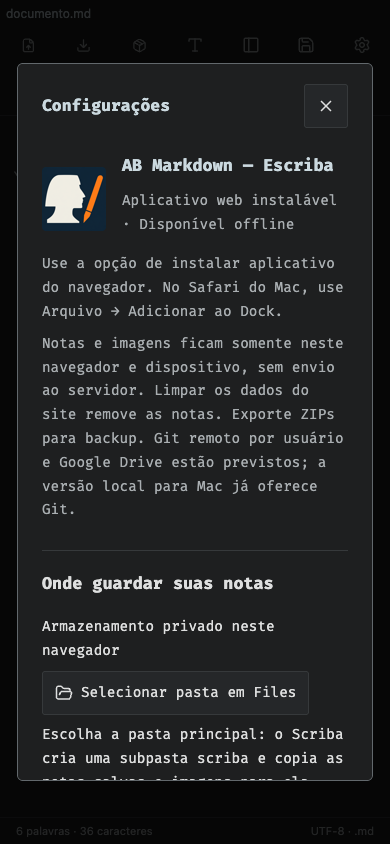
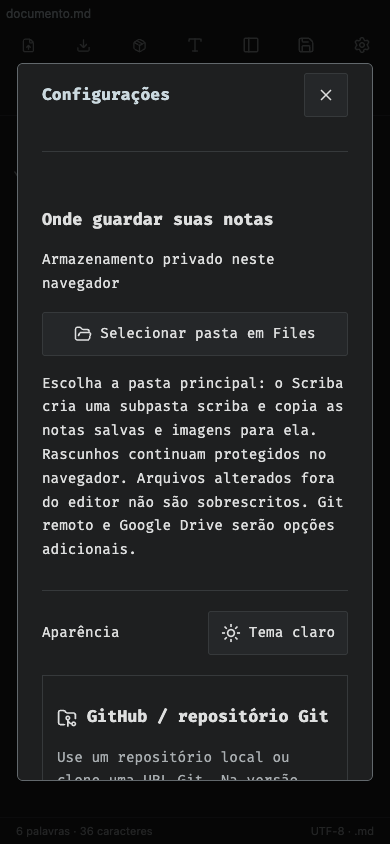
fix: load existing directory notes and refresh the sidebar

diff --git a/src/main.tsx b/src/main.tsx
@@ -109,6 +109,7 @@ function App() {
   const pwa = usePwa();
   const [deviceFolder, setDeviceFolder] = useState('');
   useEffect(() => {if(browserMode)void folderLabel().then(setDeviceFolder);}, []);
+  async function importDeviceNotes() {await api('folder/import',{});await refresh();return (await api<string[]>('files')).length;}
   async function syncDeviceNotes() {for(const file of await api<string[]>('files')){const note=await api<LoadedDocument>(`document?name=${encodeURIComponent(file)}`);await saveToDeviceFolder({name:file,...note});}}
   useEffect(() => {
     // iOS visual viewport shrinks for the keyboard even when layout viewport/dvh does not.
@@ -189,6 +190,7 @@ function App() {
     });
   }
   async function refresh() {
+    if(browserMode && await folderLabel()) await api('folder/import',{});
     const info = await api<RepositoryInfo>('repository'); setRepository(info);
     setFiles(info.repository ? await api<string[]>('files') : []);
     if (info.repository) await refreshLibrary(); else { setRecentNotes([]); setPinnedNotes([]); }
@@ -357,7 +359,7 @@ function App() {
       <p>{browserMode ? 'Notas e imagens ficam somente neste navegador e dispositivo, sem envio ao servidor. Limpar os dados do site remove as notas. Exporte ZIPs para backup. Git remoto por usuário e Google Drive estão previstos; a versão local para Mac já oferece Git.' : 'Rascunhos e imagens ficam neste navegador. Para gravar na pasta e sincronizar o Git, o aplicativo local precisa estar em execução.'}</p>
       {pwa.updateAvailable && <p>Atualização pronta. Seus rascunhos estão preservados; feche as janelas do editor e abra novamente quando terminar.</p>}
     </section>
-    {browserMode && <section className="storage-settings" aria-label="Pasta de notas"><h3>Onde guardar suas notas</h3><p>{deviceFolder ? `Pasta selecionada: ${deviceFolder}` : 'Armazenamento privado neste navegador'}</p>{canChooseFolder() ? <div className="settings-actions"><button disabled={busy} onClick={() => {void run(async () => {const label=await chooseDeviceFolder();setDeviceFolder(label);await syncDeviceNotes();setNotice(`Notas copiadas para ${label}. Novos salvamentos também irão para essa pasta.`);});}}><FolderOpen size={18}/>Selecionar pasta em Files</button>{deviceFolder && <><button disabled={busy} onClick={() => void run(async () => {await authorizeDeviceFolder();await syncDeviceNotes();setNotice('Pasta autorizada e notas copiadas.');})}>Autorizar pasta e copiar notas</button><button onClick={() => void run(async () => {await disconnectFolder();setDeviceFolder('');})}>Usar somente navegador</button></>}</div> : <p>Este navegador não oferece acesso de gravação a pastas do Files. Suas notas ficam neste navegador; use Baixar pacote para salvar um ZIP em Files. No iPhone/iPad, o acesso contínuo a pastas exige um aplicativo nativo.</p>}<p>Escolha a pasta principal: o Scriba cria uma subpasta scriba e copia as notas salvas e imagens para ela. Rascunhos continuam protegidos no navegador. Arquivos alterados fora do editor não são sobrescritos. Git remoto e Google Drive serão opções adicionais.</p></section>}
+    {browserMode && <section className="storage-settings" aria-label="Pasta de notas"><h3>Onde guardar suas notas</h3><p>{deviceFolder ? `Pasta selecionada: ${deviceFolder}` : 'Armazenamento privado neste navegador'}</p>{canChooseFolder() ? <div className="settings-actions"><button disabled={busy} onClick={() => {void run(async () => {const label=await chooseDeviceFolder();setDeviceFolder(label);const count=await importDeviceNotes();await syncDeviceNotes();setSettingsOpen(false);setNotesOpen(true);setNotice(`${count} notas carregadas. Pasta: ${label}.`);});}}><FolderOpen size={18}/>Selecionar pasta em Files</button>{deviceFolder && <><button disabled={busy} onClick={() => void run(async () => {await authorizeDeviceFolder();const count=await importDeviceNotes();await syncDeviceNotes();setSettingsOpen(false);setNotesOpen(true);setNotice(`Pasta lida: ${count} notas disponíveis na lista.`);})}>Autorizar pasta e carregar notas</button><button onClick={() => void run(async () => {await disconnectFolder();setDeviceFolder('');})}>Usar somente navegador</button></>}</div> : <p>Este navegador não oferece acesso de gravação a pastas do Files. Suas notas ficam neste navegador; use Baixar pacote para salvar um ZIP em Files. No iPhone/iPad, o acesso contínuo a pastas exige um aplicativo nativo.</p>}<p>Escolha a pasta principal: o Scriba cria uma subpasta scriba e copia as notas salvas e imagens para ela. Rascunhos continuam protegidos no navegador. Arquivos alterados fora do editor não são sobrescritos. Git remoto e Google Drive serão opções adicionais.</p></section>}
     <div className="settings-theme"><span>Aparência</span><button aria-label={theme === 'dark' ? 'Usar tema claro' : 'Usar tema escuro'} onClick={() => setTheme(theme === 'dark' ? 'light' : 'dark')}>{theme === 'dark' ? <Sun size={20}/> : <Moon size={20}/>}Tema {theme === 'dark' ? 'claro' : 'escuro'}</button></div>
     {browserMode && <section className="repository" aria-label="Sincronização com GitHub e Git"><h3><FolderGit2 size={20}/> GitHub / repositório Git</h3><p>Use um repositório local ou clone uma URL Git. Na versão local, cada salvamento grava o arquivo, cria um commit e faz push usando suas credenciais.</p><div className="settings-actions"><a className="settings-action" href="http://127.0.0.1:43127/" target="_blank" rel="noopener noreferrer">Abrir editor local com Git</a><a className="settings-action" href="https://github.com/ab-orbit/ab-markdow-editor#readme" target="_blank" rel="noopener noreferrer">Instalar no Mac</a></div><p>Abra o aplicativo AB Markdown no Mac antes de conectar. No editor local, abra Configurações para selecionar a pasta ou clonar o repositório. As notas deste site continuam separadas; use Baixar pacote e importe no editor local para transferi-las.</p><p>No celular e tablet, a conexão direta com GitHub por usuário ainda está em desenvolvimento. A pasta do dispositivo e o armazenamento no navegador continuam disponíveis conforme o suporte do navegador.</p></section>}
     {!browserMode && <details className="repository" open={!repository.repository || undefined}>

diff --git a/src/lib/deviceFolder.ts b/src/lib/deviceFolder.ts
@@ -4,16 +4,16 @@ export const canChooseFolder = () => 'showDirectoryPicker' in window;
 async function database():Promise<IDBDatabase> { return new Promise((resolve,reject)=>{const r=indexedDB.open('scriba-device-folder',1);r.onupgradeneeded=()=>r.result.createObjectStore('settings');r.onsuccess=()=>resolve(r.result);r.onerror=()=>reject(r.error);}); }
 async function setting<T>(key:string,value?:T):Promise<T|undefined> {const db=await database();try{return await new Promise((resolve,reject)=>{const tx=db.transaction('settings',value===undefined?'readonly':'readwrite'),store=tx.objectStore('settings');const r=value===undefined?store.get(key):store.put(value,key);let result:T;r.onsuccess=()=>{result=r.result as T;};tx.oncomplete=()=>resolve(result);tx.onerror=()=>reject(tx.error);});}finally{db.close();}}
 export async function folderLabel() {return (await setting<{label:string}>('label'))?.label||'';}
-export async function disconnectFolder() {await setting('handle',null);await setting('label',{label:''});}
+export async function disconnectFolder() {await setting('parent',null);await setting('handle',null);await setting('label',{label:''});}
 /** Invoke directly from a click so the OS permission prompt retains user activation. */
 export async function chooseDeviceFolder() {
  const picker=(window as unknown as {showDirectoryPicker(options:{mode:string}):Promise<Directory>}).showDirectoryPicker;
  if(!picker)throw new Error('Este navegador não permite gravar em uma pasta do Files. Use as notas no navegador e exporte ZIPs para Files.');
  const parent=await picker.call(window,{mode:'readwrite'});
  const folder=await parent.getDirectoryHandle('scriba',{create:true}) as Directory;
- await setting('handle',folder);await setting('label',{label:`${parent.name}/scriba`});return `${parent.name}/scriba`;
+ await setting('parent',parent);await setting('handle',folder);await setting('label',{label:`${parent.name}/scriba`});return `${parent.name}/scriba`;
 }
-export async function authorizeDeviceFolder() {const folder=await setting<Directory>('handle');if(folder&&await folder.requestPermission({mode:'readwrite'})!=='granted')throw new Error('Permita o acesso à pasta para salvar nela.');}
+export async function authorizeDeviceFolder() {if(!await setting('parent'))throw new Error('Selecione novamente a pasta principal pelo botão Selecionar pasta em Files para carregar as notas existentes. A configuração anterior guardava apenas a subpasta scriba.');const folder=await setting<Directory>('handle');if(folder&&await folder.requestPermission({mode:'readwrite'})!=='granted')throw new Error('Permita o acesso à pasta para salvar nela.');}
 function safeParts(name:string) {const parts=name.split('/');if(!parts.length||parts.some(p=>!p||p==='.'||p==='..'||p.includes('\\')||p.includes('\0')))throw new Error('Caminho inválido para salvar na pasta.');return parts;}
 async function digest(bytes:Uint8Array) {const hash=await crypto.subtle.digest('SHA-256',bytes as BufferSource);return Array.from(new Uint8Array(hash),b=>b.toString(16).padStart(2,'0')).join('');}
 /** Reject external changes and collisions; a browser copy survives any permission/write failure. */
@@ -32,4 +32,28 @@ export async function saveToDeviceFolder(note:{name:string;value:string;files:{p
  const prefix=note.name.includes('/')?note.name.slice(0,note.name.lastIndexOf('/')+1):'';
  for(const file of note.files)await write(folder,prefix+file.path,Uint8Array.from(atob(file.data),c=>c.charCodeAt(0)));
  await write(folder,note.name,new TextEncoder().encode(note.value));
+}
+
+/** Read existing Markdown files from the selected parent and its scriba child. Git metadata is never traversed. */
+export async function readDeviceNotes() {
+ const folder=await setting<Directory>('handle');const parent=await setting<Directory>('parent');
+ if(!folder)return [];
+ const notes:{name:string;value:string;files:{path:string;data:string;mime:string}[];modifiedAt:string}[]=[];
+ async function scan(directory:FileSystemDirectoryHandle,prefix:string,depth:number) {
+  if(depth>10)return;
+  for await(const [leaf,entry] of (directory as any).entries()) {
+   if(leaf.startsWith('.')||leaf==='node_modules'||(!prefix&&leaf==='scriba'))continue;
+   if(entry.kind==='directory'){await scan(entry,`${prefix}${leaf}/`,depth+1);continue;}
+   if(!/\.(md|markdown|mdown)$/i.test(leaf))continue;
+   const file=await entry.getFile();if(file.size>5*1024*1024)continue;
+   const value=await file.text();const files:{path:string;data:string;mime:string}[]=[];
+   for(const match of value.matchAll(/!\[[^\]]*\]\(<?([^\s)>]+)>?(?:\s+[^)]*)?\)/g)) {
+    try {const imagePath=decodeURIComponent(match[1]);const parts=safeParts(imagePath);let imageDir=directory;for(const part of parts.slice(0,-1))imageDir=await imageDir.getDirectoryHandle(part);const image=await(await imageDir.getFileHandle(parts.at(-1)!)).getFile();if(image.size>10*1024*1024||!/^image\/(png|jpeg|gif|webp)$/.test(image.type))continue;const bytes=new Uint8Array(await image.arrayBuffer());let binary='';for(let i=0;i<bytes.length;i+=8192)binary+=String.fromCharCode(...bytes.subarray(i,i+8192));files.push({path:imagePath,data:btoa(binary),mime:image.type});}catch{/* Keep Markdown available even if an image cannot be read. */}
+   }
+   notes.push({name:prefix+leaf,value,files,modifiedAt:new Date(file.lastModified).toISOString()});
+  }
+ }
+ if(parent)await scan(parent,'',0);
+ await scan(folder,'',0);
+ return notes;
 }

diff --git a/src/lib/browserStore.ts b/src/lib/browserStore.ts
@@ -1,4 +1,4 @@
-import {saveToDeviceFolder} from './deviceFolder';
+import {saveToDeviceFolder, readDeviceNotes} from './deviceFolder';
 import welcomeUrl from '../../server/assets/escriba-welcome-v1.jpg?url';
 /** Public builds keep all user content in this origin's IndexedDB, never on the VPS. */
 export const browserMode = import.meta.env.VITE_STORAGE_MODE === 'browser';
@@ -18,6 +18,7 @@ export async function browserFetch(route:string, body?:any):Promise<Response> {
   try {
     const database=await db();
     const url=new URL(route,'https://browser.invalid/');
+    const imported = url.pathname === '/folder/import' ? await readDeviceNotes() : [];
     let guide:Note|undefined;
     if(url.pathname==='/library/initialize') {
       const image=await fetch(welcomeUrl); const bytes=new Uint8Array(await image.arrayBuffer());let binary='';for(let i=0;i<bytes.length;i+=8192)binary+=String.fromCharCode(...bytes.subarray(i,i+8192));
@@ -28,6 +29,7 @@ export async function browserFetch(route:string, body?:any):Promise<Response> {
       request.onsuccess=()=>{
         const state:State=request.result||initial();const name=body?.name||url.searchParams.get('name')||'';
         switch(url.pathname) {
+          case '/folder/import':for(const note of imported){const existing=state.notes[note.name];if(!existing)state.notes[note.name]={...note,version:crypto.randomUUID()};}result=library(state);break;
           case '/repository':result={repository:'Notas neste navegador',branch:'',status:''};break;
           case '/preferences':if(body)state.preferences={askCommitNote:false,autoSave:!!body.autoSave,intervalMinutes:Math.max(1,Math.min(1440,Number(body.intervalMinutes)||1))};result=state.preferences;break;
           case '/files':result=Object.keys(state.notes).sort();break;
